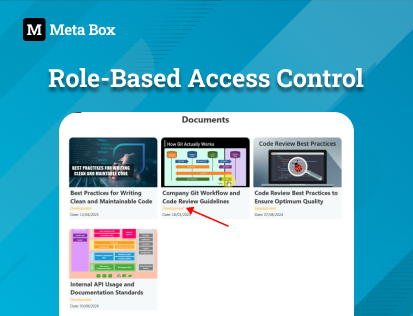
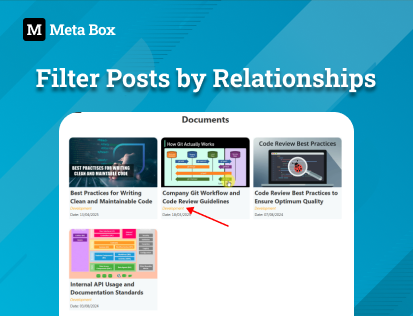
update tutorial filter posts by relationship

Changed region(s): [[0.0872, 0.1994, 0.9298, 0.3133]]

diff --git a/docs/tutorials/5.builders.md b/docs/tutorials/5.builders.md
@@ -38,7 +38,7 @@ Tutorials on combining Meta Box and other builders or tools for real builders st
 	<li><a href="/tutorials/create-timeline-with-bricks/">Creating a timeline page</a></li>
 	<li><a href="/tutorials/create-pricing-table-page-with-bricks/">Creating a pricing table page</a></li>
 	<li><a href="/tutorials/create-filters-real-estate-page-with-bricks/">Creating filter real estate</a></li>
-	<li><a href="/tutorials/role-based-access-control-with-bricks/">Role based access control</a></li>
+	<li><a href="/tutorials/role-based-access-control-with-bricks/">Filter Posts by Relationships</a></li>
 </ul>
 		</div>
 		<div className="items">

diff --git a/docs/tutorials/2.case-studies.md b/docs/tutorials/2.case-studies.md
@@ -443,9 +443,9 @@ See how to use Meta Box in the real case studies with comprehensive tutorials.
 </ul>
 		</div>
 		<div className="items">
-			<h2>Role Based Access Control</h2>
+			<h2>Filter Posts by Relationships</h2>
 
-[![role based access control ](thumbnails/case-45.png)](/tutorials/role-based-access-control-with-bricks/)
+[![Filter Posts by Relationships](thumbnails/case-45.png)](/tutorials/role-based-access-control-with-bricks/)
 <ul>
 	<li><a href="/tutorials/role-based-access-control-with-bricks/">Using Meta Box + Bricks</a></li>
 </ul>
